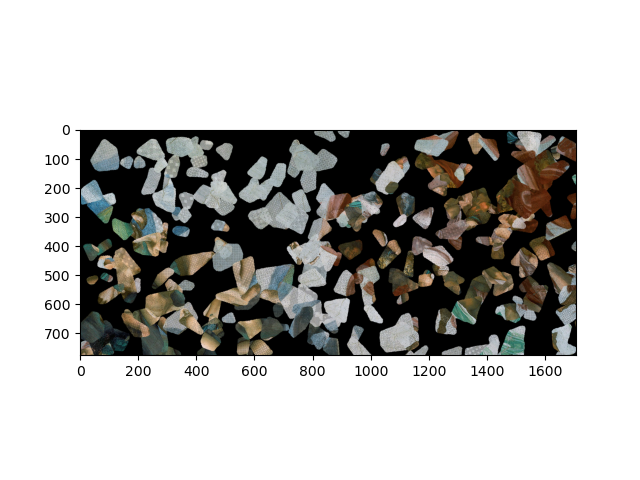
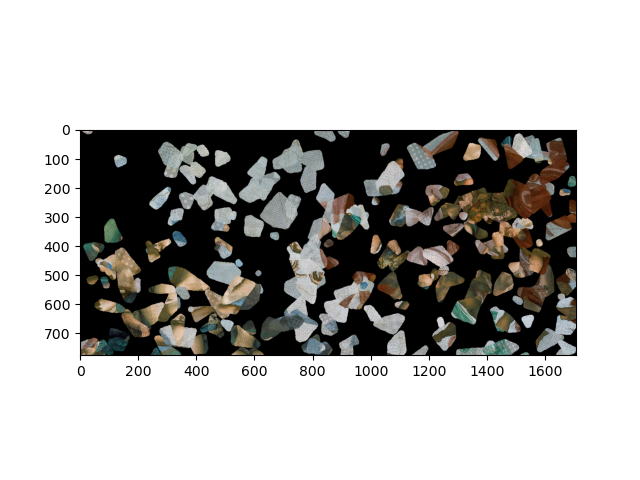
extract angle

Changed region(s): [[0.125, 0.2812, 0.9062, 0.75], [0.7812, 0.25, 0.9062, 0.4688]]

diff --git a/__ransac_functions.py b/__ransac_functions.py
@@ -1,4 +1,4 @@
-from math import asin, acos, cos, sin, pi
+from math import asin, acos, cos, sin, pi, atan2
 import numpy as np
 import array as arr
 from PIL import Image
@@ -32,7 +32,7 @@ def get_line_number(file_name):
 
 def pair_filter(val_ligne):
     result = True
-    thresh_score = 2.2
+    thresh_score = 1.5
     if (float(val_ligne[4]) < float(thresh_score)):
         result = False
     if (int(val_ligne[5]) == 0):
@@ -125,23 +125,39 @@ def execute_ransac(x1, x2, y1, y2, printIt=False):
         plt.show()
     return ransac.estimator_
 
-def getDaDxDyFromH(H):
+def getDaDxDyFromH(H, thresh=np.inf, verbose=False):
+    # Translation
     dx = H[0,2]
     dy = H[1,2]
+    # Rotation
+    # Matrice de la forme 
+    # [[a,-b], 
+    #  [b, a]]
     da1 = acos(max(min(H[0,0], 1), -1))
     da2 = acos(max(min(H[1,1], 1), -1))
     da3 = asin(max(min(H[0,1], 1), -1))
     da4 = asin(max(min(-H[1,0], 1), -1))
-    angles = [da1-(pi/2), da2-(pi/2), da3, da4]
+    tang = atan2(H[0,0], H[1,0])
+    offset = -pi
+    if (tang > 0):
+        offset = -(pi/2)
+    angles = [da1+offset, da2+offset, da3, da4]
     da = sum(angles)/4
+    # Goodmatch
+    goodmatch = True
+    if ((abs(da1-da2) > thresh) or (abs(da3-da4) > thresh)):
+        goodmatch = False
     
-    print("dx / dy : " + str(dx) + " / " +str(dy))
-    print("da1 : " + str(da1))
-    print("da2 : " + str(da2))
-    print("da3 : " + str(da3))
-    print("da4 : " + str(da4))
-    print("avg da : " + str(da))
-    return dx, dy, da
+    if (verbose):
+        print(angles)
+        print(tang)
+        print("dx / dy : " + str(dx) + " / " +str(dy))
+        print("a : " + str(da1))
+        print("d : " + str(da2))
+        print("b : " + str(da3))
+        print("c : " + str(da4))
+        print("avg da : " + str(da))
+    return dx, dy, da, goodmatch
 
 def copy_image_into_image_Transform(frag, fresque, dx, dy, da):
     ##### INIT

diff --git a/__ransac.py b/__ransac.py
@@ -107,9 +107,12 @@ frag_ppm = r_f.get_frag_name(param1)
 frag_png = "images/frag_tmp.png"
 r_f.convert_image(frag_ppm, frag_png)
 print(H)
-dx,dy,da = r_f.getDaDxDyFromH(H)
+dx,dy,da,goodmatch = r_f.getDaDxDyFromH(H, 0.25)
 if (useOpenCV):
-	r_f.copy_image_into_image_Transform(frag_png, "images/fresque_empty.png", dx, dy, da)
+	if (goodmatch):
+		r_f.copy_image_into_image_Transform(frag_png, "images/fresque_empty.png", dx, dy, da)
+	else:
+		r_f.copy_image_into_image_Transform(frag_png, "images/fresque_empty_fantomes.png", dx, dy, da)
 	#r_f.copy_image_into_image_OpenCV(frag_png, "images/fresque_copy.png", H)
 	#r_f.copy_image_into_image_OpenCV(frag_png, "images/fresque_empty.png", H)
 

diff --git a/_init_fresque.py b/_init_fresque.py
@@ -25,6 +25,7 @@ for i in range(w):
 # Save as normal image
 img = Image.fromarray(fresque, 'RGB')
 img.save('images/fresque_empty.png')
+img.save('images/fresque_empty_fantomes.png')
 #img.show()
 img = Image.fromarray(fresque_base, 'RGB')
 img.save('images/fresque_copy.png')
